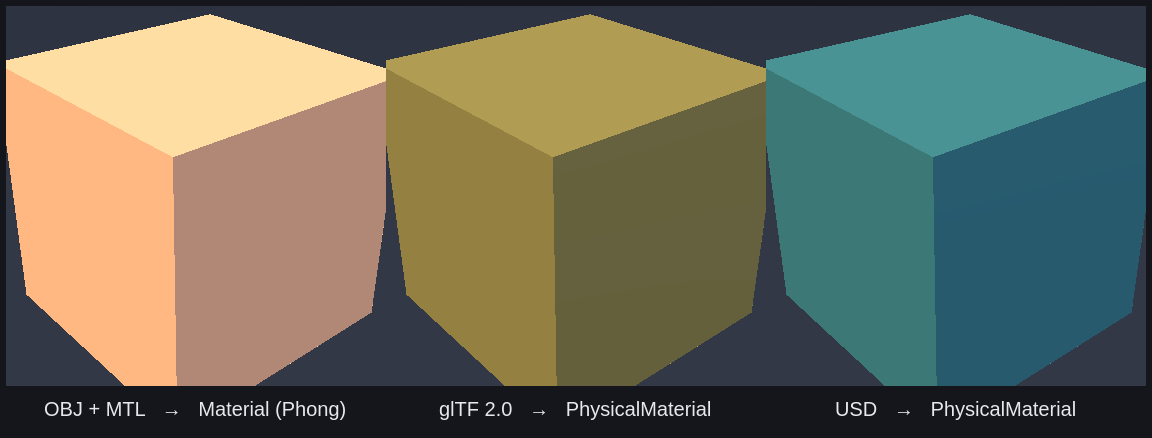
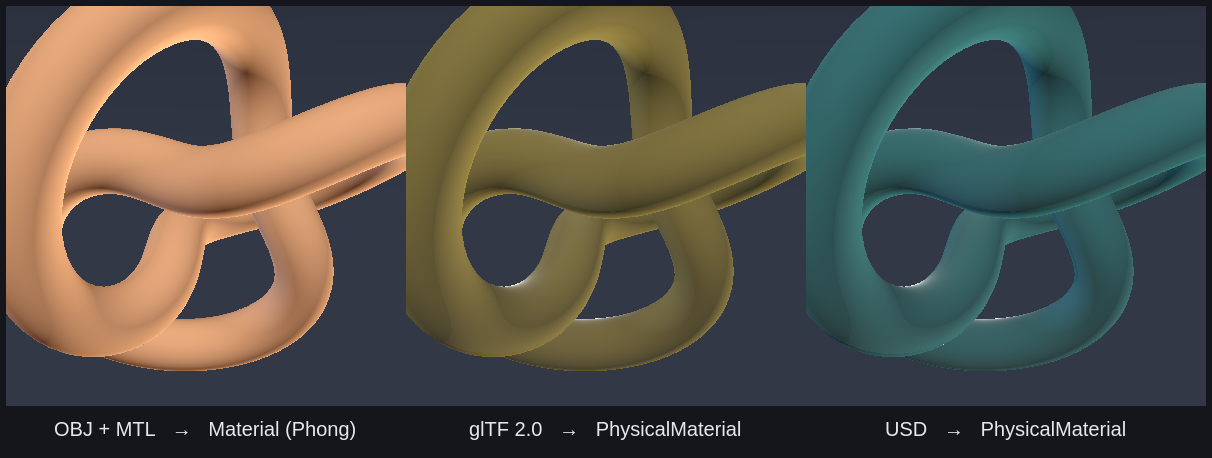
docs(asset-import): showcase a torus knot instead of a cube
Swap the OBJ/glTF/USD conversion showcase mesh from a cube to a procedural (2,3)
torus knot (~6.7k verts, smooth-shaded via rotation-minimizing frames) for a more
representative render. gen.py now emits the knot; the generated knot.* assets are
gitignored (regenerable, ~2 MB) — gen.py + the gallery montage are the committed
artifacts. Still fully authored in-repo (license-clean).

diff --git a/examples/asset_import/assets/showcase/gen.py b/examples/asset_import/assets/showcase/gen.py
@@ -1,83 +1,115 @@
 #!/usr/bin/env python3
-# Generate a license-clean cube in OBJ+MTL, glTF 2.0, and USDA — each with a
-# distinct PBR material — to showcase the x3d_asset_import converter across the
-# three backends (assimp OBJ / assimp glTF / tinyusdz USD). All authored here,
-# so there are no third-party asset licensing concerns.
-import base64, json, os, struct
+# Generate a license-clean (p,q) torus knot in OBJ+MTL, glTF 2.0, and USDA — each
+# with a distinct PBR material — to showcase the x3d_asset_import converter across
+# the three backends (assimp OBJ / assimp glTF / tinyusdz USD). The mesh is authored
+# procedurally here, so there are no third-party asset licensing concerns.
+import base64, json, math, os, struct
 
 OUT = os.path.dirname(os.path.abspath(__file__))
+P, Q = 2, 3            # (2,3) torus knot (trefoil)
+NSEG, NRING = 240, 28  # samples along the knot / around the tube
+TUBE = 0.42
+SCALE = 0.62
 
-# ---- shared flat-shaded cube (24 verts, per-face normals, 12 tris) ----------
-# faces: +X,-X,+Y,-Y,+Z,-Z
-faces = [
-    ((1,0,0),  [(1,-1,-1),(1,1,-1),(1,1,1),(1,-1,1)]),
-    ((-1,0,0), [(-1,-1,1),(-1,1,1),(-1,1,-1),(-1,-1,-1)]),
-    ((0,1,0),  [(-1,1,-1),(-1,1,1),(1,1,1),(1,1,-1)]),
-    ((0,-1,0), [(-1,-1,1),(-1,-1,-1),(1,-1,-1),(1,-1,1)]),
-    ((0,0,1),  [(-1,-1,1),(1,-1,1),(1,1,1),(-1,1,1)]),
-    ((0,0,-1), [(1,-1,-1),(-1,-1,-1),(-1,1,-1),(1,1,-1)]),
-]
+def centerline(t):
+    r = 2.0 + math.cos(Q * t)
+    return (r * math.cos(P * t), r * math.sin(P * t), math.sin(Q * t))
+
+def sub(a, b): return (a[0]-b[0], a[1]-b[1], a[2]-b[2])
+def add(a, b): return (a[0]+b[0], a[1]+b[1], a[2]+b[2])
+def mul(a, s): return (a[0]*s, a[1]*s, a[2]*s)
+def dot(a, b): return a[0]*b[0]+a[1]*b[1]+a[2]*b[2]
+def cross(a, b): return (a[1]*b[2]-a[2]*b[1], a[2]*b[0]-a[0]*b[2], a[0]*b[1]-a[1]*b[0])
+def norm(a):
+    l = math.sqrt(dot(a, a)) or 1.0
+    return (a[0]/l, a[1]/l, a[2]/l)
+
+# centerline samples + unit tangents (central difference, periodic)
+C = [centerline(2*math.pi*i/NSEG) for i in range(NSEG)]
+T = [norm(sub(C[(i+1) % NSEG], C[(i-1) % NSEG])) for i in range(NSEG)]
+
+# rotation-minimizing (parallel-transport) frames
+Nf = [None]*NSEG; Bf = [None]*NSEG
+seed = (0, 0, 1) if abs(T[0][2]) < 0.9 else (0, 1, 0)
+Nf[0] = norm(sub(seed, mul(T[0], dot(seed, T[0]))))
+Bf[0] = cross(T[0], Nf[0])
+for i in range(1, NSEG):
+    n = sub(Nf[i-1], mul(T[i], dot(Nf[i-1], T[i])))  # project prev normal onto new plane
+    Nf[i] = norm(n); Bf[i] = cross(T[i], Nf[i])
+# closure: measure residual twist wrapping back to frame 0, distribute it linearly
+nres = norm(sub(Nf[0], mul(T[0], dot(Nf[0], T[0]))))
+resid = math.atan2(dot(cross(Nf[NSEG-1], nres), T[0]), dot(Nf[NSEG-1], nres))
+
 positions, normals, tris = [], [], []
-for n, quad in faces:
-    b = len(positions)
-    for v in quad:
-        positions.append(v); normals.append(n)
-    tris += [(b,b+1,b+2),(b,b+2,b+3)]
+for i in range(NSEG):
+    phi = -resid * i / NSEG
+    for j in range(NRING):
+        a = 2*math.pi*j/NRING + phi
+        d = norm(add(mul(Nf[i], math.cos(a)), mul(Bf[i], math.sin(a))))  # radial = normal
+        positions.append(mul(add(C[i], mul(d, TUBE)), SCALE))
+        normals.append(d)
+# watertight grid, periodic in both directions (no caps)
+for i in range(NSEG):
+    for j in range(NRING):
+        a = i*NRING + j
+        b = i*NRING + (j+1) % NRING
+        c = ((i+1) % NSEG)*NRING + j
+        e = ((i+1) % NSEG)*NRING + (j+1) % NRING
+        tris += [(a, c, b), (b, c, e)]
 
-# ---- OBJ + MTL (warm copper-ish) --------------------------------------------
-with open(f"{OUT}/cube.mtl","w") as f:
+# ---- OBJ + MTL (warm copper) ------------------------------------------------
+with open(f"{OUT}/knot.mtl", "w") as f:
     f.write("# Authored for the x3d_asset_import showcase (license-clean).\n")
-    f.write("newmtl copper\nKd 0.72 0.38 0.20\nKs 0.9 0.6 0.4\nNs 120\n")
-with open(f"{OUT}/cube.obj","w") as f:
-    f.write("# Authored cube for the x3d_asset_import showcase (license-clean).\n")
-    f.write("mtllib cube.mtl\no cube\n")
-    for p in positions: f.write(f"v {p[0]} {p[1]} {p[2]}\n")
-    for n in normals:   f.write(f"vn {n[0]} {n[1]} {n[2]}\n")
+    f.write("newmtl copper\nKd 0.72 0.38 0.20\nKs 0.9 0.6 0.4\nNs 90\n")
+with open(f"{OUT}/knot.obj", "w") as f:
+    f.write("# Authored (2,3) torus knot for the showcase (license-clean).\n")
+    f.write("mtllib knot.mtl\no knot\n")
+    for p in positions: f.write(f"v {p[0]:.5f} {p[1]:.5f} {p[2]:.5f}\n")
+    for n in normals:   f.write(f"vn {n[0]:.5f} {n[1]:.5f} {n[2]:.5f}\n")
     f.write("usemtl copper\n")
-    for a,b,c in tris:  f.write(f"f {a+1}//{a+1} {b+1}//{b+1} {c+1}//{c+1}\n")
+    for a, b, c in tris: f.write(f"f {a+1}//{a+1} {b+1}//{b+1} {c+1}//{c+1}\n")
 
-# ---- glTF 2.0 (metallic gold; self-contained, embedded buffer) --------------
-pos_bytes = b"".join(struct.pack("<3f",*p) for p in positions)
-nrm_bytes = b"".join(struct.pack("<3f",*n) for n in normals)
+# ---- glTF 2.0 (gold; self-contained, embedded buffer) -----------------------
+pos_b = b"".join(struct.pack("<3f", *p) for p in positions)
+nrm_b = b"".join(struct.pack("<3f", *n) for n in normals)
 idx = [i for t in tris for i in t]
-idx_bytes = b"".join(struct.pack("<H",i) for i in idx)
-# pad each section to 4-byte alignment
-def pad(b): return b + b"\x00"*((4-len(b)%4)%4)
-pos_bytes, nrm_bytes = pad(pos_bytes), pad(nrm_bytes)
-blob = pos_bytes + nrm_bytes + pad(idx_bytes)
+idx_b = b"".join(struct.pack("<I", i) for i in idx)  # uint32 indices
+pad = lambda b: b + b"\x00"*((4-len(b) % 4) % 4)
+pos_b, nrm_b = pad(pos_b), pad(nrm_b)
+blob = pos_b + nrm_b + pad(idx_b)
 mn = [min(p[i] for p in positions) for i in range(3)]
 mx = [max(p[i] for p in positions) for i in range(3)]
 gltf = {
- "asset":{"version":"2.0","generator":"x3d_asset_import showcase gen.py"},
- "scenes":[{"nodes":[0]}], "scene":0, "nodes":[{"mesh":0,"name":"cube"}],
- "materials":[{"name":"gold","pbrMetallicRoughness":{
-     "baseColorFactor":[0.95,0.72,0.18,1.0],"metallicFactor":0.1,"roughnessFactor":0.5}}],
- "meshes":[{"name":"cube","primitives":[{"attributes":{"POSITION":0,"NORMAL":1},
-     "indices":2,"material":0}]}],
- "buffers":[{"byteLength":len(blob),
-     "uri":"data:application/octet-stream;base64,"+base64.b64encode(blob).decode()}],
- "bufferViews":[
-     {"buffer":0,"byteOffset":0,"byteLength":len(pos_bytes),"target":34962},
-     {"buffer":0,"byteOffset":len(pos_bytes),"byteLength":len(nrm_bytes),"target":34962},
-     {"buffer":0,"byteOffset":len(pos_bytes)+len(nrm_bytes),"byteLength":len(idx_bytes),"target":34963}],
- "accessors":[
-     {"bufferView":0,"componentType":5126,"count":len(positions),"type":"VEC3","min":mn,"max":mx},
-     {"bufferView":1,"componentType":5126,"count":len(normals),"type":"VEC3"},
-     {"bufferView":2,"componentType":5123,"count":len(idx),"type":"SCALAR"}],
+ "asset": {"version": "2.0", "generator": "x3d_asset_import showcase gen.py"},
+ "scene": 0, "scenes": [{"nodes": [0]}], "nodes": [{"mesh": 0, "name": "knot"}],
+ "materials": [{"name": "gold", "pbrMetallicRoughness": {
+     "baseColorFactor": [0.95, 0.72, 0.18, 1.0], "metallicFactor": 0.1, "roughnessFactor": 0.5}}],
+ "meshes": [{"name": "knot", "primitives": [{"attributes": {"POSITION": 0, "NORMAL": 1},
+     "indices": 2, "material": 0}]}],
+ "buffers": [{"byteLength": len(blob),
+     "uri": "data:application/octet-stream;base64," + base64.b64encode(blob).decode()}],
+ "bufferViews": [
+     {"buffer": 0, "byteOffset": 0, "byteLength": len(pos_b), "target": 34962},
+     {"buffer": 0, "byteOffset": len(pos_b), "byteLength": len(nrm_b), "target": 34962},
+     {"buffer": 0, "byteOffset": len(pos_b)+len(nrm_b), "byteLength": len(idx_b), "target": 34963}],
+ "accessors": [
+     {"bufferView": 0, "componentType": 5126, "count": len(positions), "type": "VEC3", "min": mn, "max": mx},
+     {"bufferView": 1, "componentType": 5126, "count": len(normals), "type": "VEC3"},
+     {"bufferView": 2, "componentType": 5125, "count": len(idx), "type": "SCALAR"}],
 }
-with open(f"{OUT}/cube.gltf","w") as f: json.dump(gltf,f,indent=1)
+with open(f"{OUT}/knot.gltf", "w") as f: json.dump(gltf, f)
 
-# ---- USDA (UsdPreviewSurface, teal metallic) --------------------------------
-pts = ", ".join(f"({p[0]}, {p[1]}, {p[2]})" for p in positions)
+# ---- USDA (teal UsdPreviewSurface) ------------------------------------------
+pts = ", ".join(f"({p[0]:.5f}, {p[1]:.5f}, {p[2]:.5f})" for p in positions)
 counts = ", ".join("3" for _ in tris)
 fvi = ", ".join(str(i) for t in tris for i in t)
-nrm = ", ".join(f"({n[0]}, {n[1]}, {n[2]})" for n in normals)
-with open(f"{OUT}/cube.usda","w") as f:
+nrm = ", ".join(f"({n[0]:.5f}, {n[1]:.5f}, {n[2]:.5f})" for n in normals)
+with open(f"{OUT}/knot.usda", "w") as f:
     f.write(f'''#usda 1.0
 ( defaultPrim = "World" upAxis = "Y" )
-# Authored cube for the x3d_asset_import showcase (license-clean).
+# Authored (2,3) torus knot for the showcase (license-clean).
 def Xform "World" {{
-  def Mesh "Cube" ( prepend apiSchemas = ["MaterialBindingAPI"] ) {{
+  def Mesh "Knot" ( prepend apiSchemas = ["MaterialBindingAPI"] ) {{
     int[] faceVertexCounts = [{counts}]
     int[] faceVertexIndices = [{fvi}]
     point3f[] points = [{pts}]
@@ -96,4 +128,5 @@ def Xform "World" {{
   }}
 }}
 ''')
-print("generated:", ", ".join(sorted(os.listdir(OUT))))
+print(f"generated {len(positions)} verts, {len(tris)} tris:",
+      ", ".join(sorted(f for f in os.listdir(OUT) if f.startswith("knot"))))

diff --git a/examples/asset_import/assets/showcase/README.md b/examples/asset_import/assets/showcase/README.md
@@ -1,38 +1,42 @@
 # Conversion showcase — OBJ · glTF · USD → X3D
 
-One cube, authored in three source formats, run through `x3d_asset_import` to show
-that a single converter + material pipeline handles all three backends and maps each
-to the right X3D 4.0 material node.
+One (2,3) torus knot (~6.7k verts / 13.4k tris, smooth-shaded), authored in three
+source formats, run through `x3d_asset_import` to show that a single converter +
+material pipeline handles all three backends and maps each to the right X3D 4.0
+material node.
 
 ![showcase](showcase.png)
 
 | Source | Backend | Material | X3D node |
 |---|---|---|---|
-| `cube.obj` + `cube.mtl` | assimp (`-DX3D_CPP_BUILD_ASSIMP=ON`) | copper `Kd`/`Ks` | `Material` (Phong) |
-| `cube.gltf` (self-contained, embedded buffer) | assimp | gold metallic-roughness | `PhysicalMaterial` |
-| `cube.usda` | tinyusdz (`-DX3D_CPP_BUILD_USD=ON`) | teal UsdPreviewSurface | `PhysicalMaterial` |
+| `knot.obj` + `knot.mtl` | assimp (`-DX3D_CPP_BUILD_ASSIMP=ON`) | copper `Kd`/`Ks` | `Material` (Phong) |
+| `knot.gltf` (self-contained, embedded buffer) | assimp | gold metallic-roughness | `PhysicalMaterial` |
+| `knot.usda` | tinyusdz (`-DX3D_CPP_BUILD_USD=ON`) | teal UsdPreviewSurface | `PhysicalMaterial` |
 
 OBJ carries no PBR, so it imports as a Phong `Material`; glTF and USD both carry
 metallic-roughness and map to `PhysicalMaterial`.
 
 ## License
 
-All assets here are **authored in-repo** by [`gen.py`](gen.py) — no third-party
-models — so the showcase is free of asset-licensing constraints (see the
-[asset-licensing policy](../../README.md#example-models--licensing)).
+The mesh is generated procedurally by [`gen.py`](gen.py) (a parametric torus knot
+with rotation-minimizing frames) — no third-party models — so the showcase is free
+of asset-licensing constraints (see the
+[asset-licensing policy](../../README.md#example-models--licensing)). The generated
+`knot.*` assets are `.gitignore`d (regenerable; not vendored, to keep the repo lean).
 
 ## Regenerate + convert + render
 
 ```sh
-python3 gen.py            # (re)writes cube.obj/.mtl/.gltf/.usda
+cd examples/asset_import/assets/showcase && python3 gen.py   # writes knot.obj/.mtl/.gltf/.usda
+cd -
 
 BIN=build-asset-import/examples/asset_import/x3d_asset_import   # built with ASSIMP + USD ON
 for fmt in obj gltf usda; do
-  "$BIN" examples/asset_import/assets/showcase/cube.$fmt -o /tmp/cube_$fmt.x3d --stats
+  "$BIN" examples/asset_import/assets/showcase/knot.$fmt -o /tmp/knot_$fmt.x3d --stats
 done
 
 # visualize (headless CPU rasterizer)
-build-cpuraster/examples/cpu_raster/x3d_cpu_raster /tmp/cube_gltf.x3d -o /tmp/cube.ppm
+build-cpuraster/examples/cpu_raster/x3d_cpu_raster /tmp/knot_gltf.x3d -o /tmp/knot.ppm
 ```
 
 The montage above was composited from three such renders under one three-point rig.

diff --git a/examples/asset_import/README.md b/examples/asset_import/README.md
@@ -102,9 +102,10 @@ See [ADR-0043](../../docs/wiki/decisions/0043-usd-material-portable-glsl-seam.md
 
 ## Showcase
 
-[`assets/showcase/`](assets/showcase/) converts one cube authored in **OBJ**, **glTF**,
-and **USD** through the three backends, showing the format-agnostic pipeline and the
-material-model mapping (OBJ → Phong `Material`; glTF & USD → `PhysicalMaterial`):
+[`assets/showcase/`](assets/showcase/) converts one procedural torus knot authored in
+**OBJ**, **glTF**, and **USD** through the three backends, showing the format-agnostic
+pipeline and the material-model mapping (OBJ → Phong `Material`; glTF & USD →
+`PhysicalMaterial`):
 
 ![OBJ / glTF / USD conversion showcase](assets/showcase/showcase.png)
 